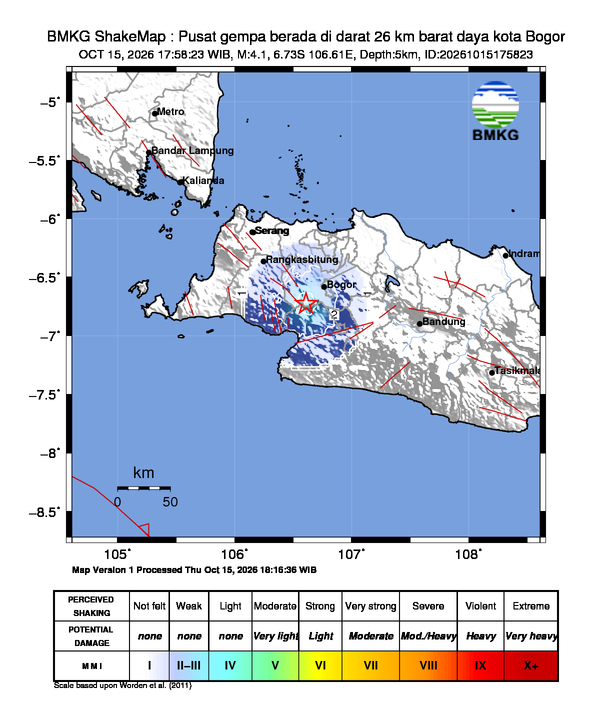
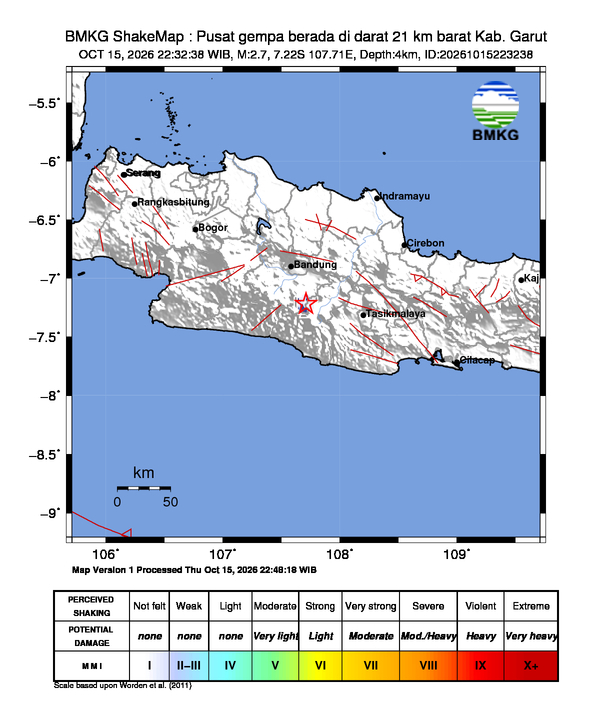
docs: update info gempa & README - 2026-10-16 01:23:10 WIB [skip ci]

diff --git a/README.md b/README.md
@@ -2,7 +2,7 @@
 
 > Monitor gempa bumi real-time untuk wilayah Indonesia. Data diambil otomatis dari **BMKG** setiap 5 menit oleh GitHub Actions, lalu ditampilkan lengkap di README ini beserta peta guncangannya (shakemap).
 
-🕒 **Update otomatis terakhir:** Kamis, 15 Oktober 2026 pukul 21.18.39
+🕒 **Update otomatis terakhir:** Jumat, 16 Oktober 2026 pukul 01.23.10
 
 ---
 
@@ -10,13 +10,13 @@
 
 | Parameter | Detail |
 | --- | --- |
-| 📊 **Magnitudo** | M 4.1 |
-| 📍 **Wilayah** | Pusat gempa berada di darat 26 km barat daya kota Bogor |
-| 🕒 **Waktu** | 15 Okt 2026, 17:58:23 WIB |
-| 🧭 **Koordinat** | -6.73,106.61 |
-| 📏 **Kedalaman** | 5 km |
+| 📊 **Magnitudo** | M 2.7 |
+| 📍 **Wilayah** | Pusat gempa berada di darat 21 km barat Kab. Garut |
+| 🕒 **Waktu** | 15 Okt 2026, 22:32:38 WIB |
+| 🧭 **Koordinat** | -7.22,107.71 |
+| 📏 **Kedalaman** | 4 km |
 | 🌊 **Potensi** | Gempa ini dirasakan untuk diteruskan pada masyarakat |
-| 📡 **Dirasakan** | IV Pamijahan, IV Kabandungan |
+| 📡 **Dirasakan** | III Darajat, III Pasirwangi |
 | 🔗 **Sumber** | [BMKG — InfoGempa Realtime](https://www.bmkg.go.id/gempabumi) |
 
 ### 🗺 Peta Guncangan (Shakemap)
@@ -29,6 +29,7 @@
 
 | Waktu | Magnitudo | Wilayah | Kedalaman | Potensi |
 | --- | --- | --- | --- | --- |
+| 15 Okt 2026 22:32:38 WIB | **M 2.7** | Pusat gempa berada di darat 21 km barat Kab. Garut | 4 km | Gempa ini dirasakan untuk diteruskan pada masyarakat |
 | 15 Okt 2026 17:58:23 WIB | **M 4.1** | Pusat gempa berada di darat 26 km barat daya kota Bogor | 5 km | Gempa ini dirasakan untuk diteruskan pada masyarakat |
 | 14 Okt 2026 17:30:57 WIB | **M 3.8** | Pusat gempa berada di laut 53 km utara Ruteng, Manggarai | 10 km | Gempa ini dirasakan untuk diteruskan pada masyarakat |
 | 13 Okt 2026 17:22:02 WIB | **M 4.5** | Pusat gempa berada di laut 103 km selatan Pacitan | 10 km | Gempa ini dirasakan untuk diteruskan pada masyarakat |
@@ -43,7 +44,6 @@
 | 09 Okt 2026 17:34:55 WIB | **M 2.4** | Pusat gempa berada di darat 12 km barat Kendari | 3 km | Gempa ini dirasakan untuk diteruskan pada masyarakat |
 | 09 Okt 2026 12:11:04 WIB | **M 5.1** | Pusat gempa berada di laut 125 km Tenggara Bitung | 10 km | Gempa ini dirasakan untuk diteruskan pada masyarakat |
 | 09 Okt 2026 01:06:02 WIB | **M 4.7** | Pusat gempa berada di laut 39 km utara Waingapu | 59 km | Gempa ini dirasakan untuk diteruskan pada masyarakat |
-| 08 Okt 2026 22:23:47 WIB | **M 4.4** | Pusat gempa berada di laut 71 km Barat Bengkulu Utara | 10 km | Gempa ini dirasakan untuk diteruskan pada masyarakat |
 
 ---
 
